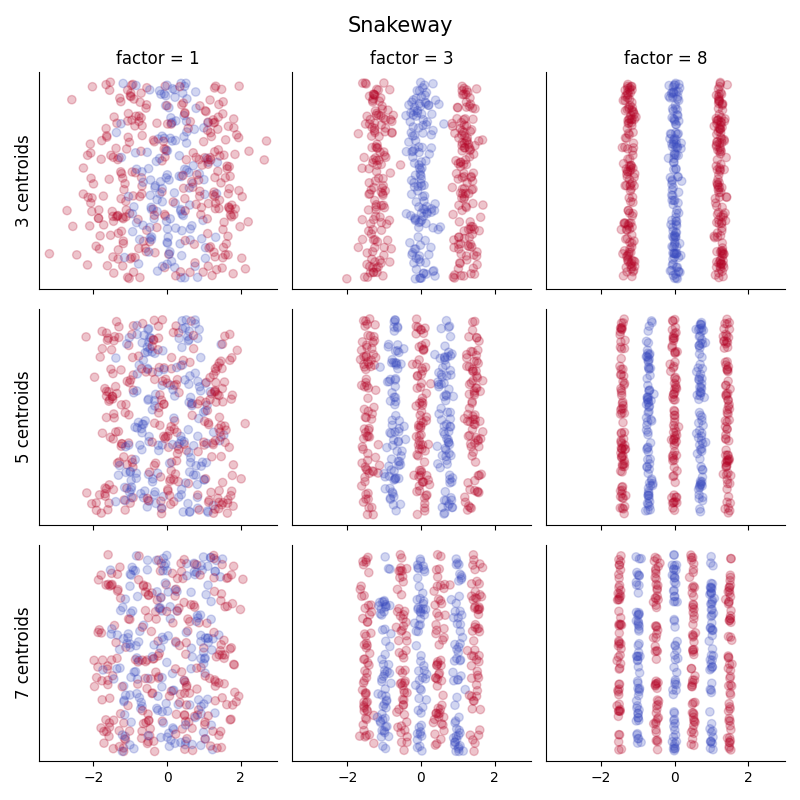
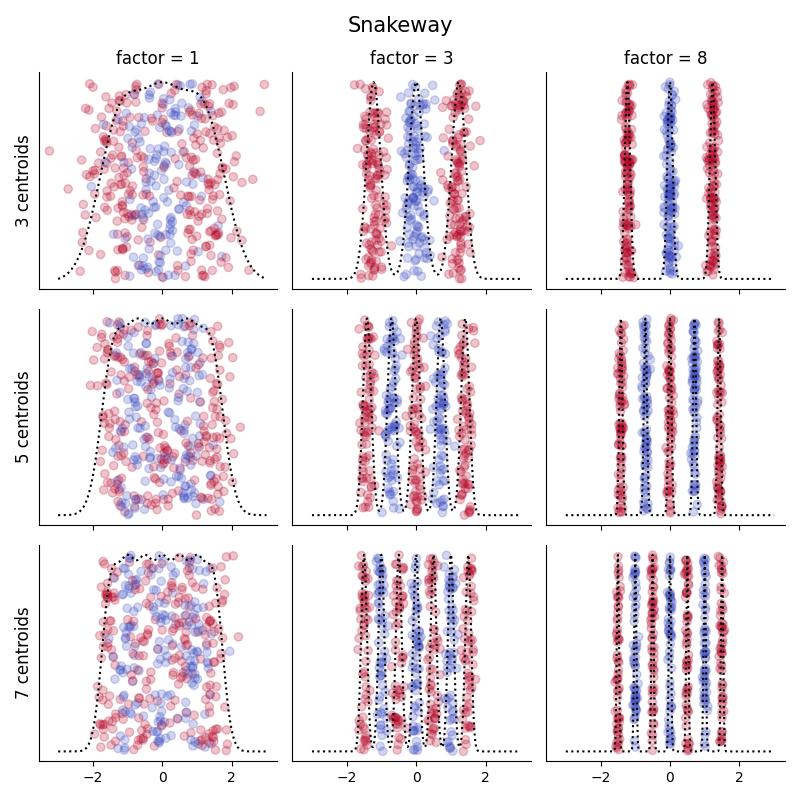
.

diff --git a/cd_plots.py b/cd_plots.py
@@ -1,0 +1,361 @@
+       
+from scipy.stats import rankdata
+import numpy as np
+import matplotlib.pyplot as plt
+import math
+from utils import synthetic_dataset_names
+
+
+def compute_CD(avranks, n, alpha="0.05", test="nemenyi"):
+    """
+    Returns critical difference for Nemenyi or Bonferroni-Dunn test
+    according to given alpha (either alpha="0.05" or alpha="0.1") for average
+    ranks and number of tested datasets N. Test can be either "nemenyi" for
+    for Nemenyi two tailed test or "bonferroni-dunn" for Bonferroni-Dunn test.
+    """
+    k = len(avranks)
+    d = {("nemenyi", "0.05"): [0, 0, 1.959964, 2.343701, 2.569032, 2.727774,
+                               2.849705, 2.94832, 3.030879, 3.101730, 3.163684,
+                               3.218654, 3.268004, 3.312739, 3.353618, 3.39123,
+                               3.426041, 3.458425, 3.488685, 3.517073,
+                               3.543799],
+         ("nemenyi", "0.1"): [0, 0, 1.644854, 2.052293, 2.291341, 2.459516,
+                              2.588521, 2.692732, 2.779884, 2.854606, 2.919889,
+                              2.977768, 3.029694, 3.076733, 3.119693, 3.159199,
+                              3.195743, 3.229723, 3.261461, 3.291224, 3.319233],
+         ("bonferroni-dunn", "0.05"): [0, 0, 1.960, 2.241, 2.394, 2.498, 2.576,
+                                       2.638, 2.690, 2.724, 2.773],
+         ("bonferroni-dunn", "0.1"): [0, 0, 1.645, 1.960, 2.128, 2.241, 2.326,
+                                      2.394, 2.450, 2.498, 2.539]}
+    q = d[(test, alpha)]
+    cd = q[k] * (k * (k + 1) / (6.0 * n)) ** 0.5
+    return cd
+
+
+def graph_ranks(avranks, names, cd=None, cdmethod=None, lowv=None, highv=None,
+                width=6, textspace=1, reverse=False, filename=None, **kwargs):
+    """
+    Draws a CD graph, which is used to display  the differences in methods'
+    performance. See Janez Demsar, Statistical Comparisons of Classifiers over
+    Multiple Data Sets, 7(Jan):1--30, 2006.
+
+    Needs matplotlib to work.
+
+    The image is ploted on `plt` imported using
+    `import matplotlib.pyplot as plt`.
+
+    Args:
+        avranks (list of float): average ranks of methods.
+        names (list of str): names of methods.
+        cd (float): Critical difference used for statistically significance of
+            difference between methods.
+        cdmethod (int, optional): the method that is compared with other methods
+            If omitted, show pairwise comparison of methods
+        lowv (int, optional): the lowest shown rank
+        highv (int, optional): the highest shown rank
+        width (int, optional): default width in inches (default: 6)
+        textspace (int, optional): space on figure sides (in inches) for the
+            method names (default: 1)
+        reverse (bool, optional):  if set to `True`, the lowest rank is on the
+            right (default: `False`)
+        filename (str, optional): output file name (with extension). If not
+            given, the function does not write a file.
+    """
+    try:
+        import matplotlib.pyplot as plt
+        from matplotlib.backends.backend_agg import FigureCanvasAgg
+    except ImportError:
+        raise ImportError("Function graph_ranks requires matplotlib.")
+
+    width = float(width)
+    textspace = float(textspace)
+
+    def nth(l, n):
+        """
+        Returns only nth elemnt in a list.
+        """
+        n = lloc(l, n)
+        return [a[n] for a in l]
+
+    def lloc(l, n):
+        """
+        List location in list of list structure.
+        Enable the use of negative locations:
+        -1 is the last element, -2 second last...
+        """
+        if n < 0:
+            return len(l[0]) + n
+        else:
+            return n
+
+    def mxrange(lr):
+        """
+        Multiple xranges. Can be used to traverse matrices.
+        This function is very slow due to unknown number of
+        parameters.
+
+        >>> mxrange([3,5])
+        [(0, 0), (0, 1), (0, 2), (1, 0), (1, 1), (1, 2)]
+
+        >>> mxrange([[3,5,1],[9,0,-3]])
+        [(3, 9), (3, 6), (3, 3), (4, 9), (4, 6), (4, 3)]
+
+        """
+        if not len(lr):
+            yield ()
+        else:
+            # it can work with single numbers
+            index = lr[0]
+            if isinstance(index, int):
+                index = [index]
+            for a in range(*index):
+                for b in mxrange(lr[1:]):
+                    yield tuple([a] + list(b))
+
+    def print_figure(fig, *args, **kwargs):
+        canvas = FigureCanvasAgg(fig)
+        canvas.print_figure(*args, **kwargs)
+
+    sums = avranks
+
+    tempsort = sorted([(a, i) for i, a in enumerate(sums)], reverse=reverse)
+    ssums = nth(tempsort, 0)
+    sortidx = nth(tempsort, 1)
+    nnames = [names[x] for x in sortidx]
+
+    if lowv is None:
+        lowv = min(1, int(math.floor(min(ssums))))
+    if highv is None:
+        highv = max(len(avranks), int(math.ceil(max(ssums))))
+
+    cline = 0.4
+
+    k = len(sums)
+
+    lines = None
+
+    linesblank = 0
+    scalewidth = width - 2 * textspace
+
+    def rankpos(rank):
+        if not reverse:
+            a = rank - lowv
+        else:
+            a = highv - rank
+        return textspace + scalewidth / (highv - lowv) * a
+
+    distanceh = 0.25
+
+    if cd and cdmethod is None:
+        # get pairs of non significant methods
+
+        def get_lines(sums, hsd):
+            # get all pairs
+            lsums = len(sums)
+            allpairs = [(i, j)
+                        for i, j in mxrange([[lsums], [lsums]]) if j > i]
+            # remove not significant
+            notSig = [(i, j) for i, j in allpairs
+                      if abs(sums[i] - sums[j]) <= hsd]
+            # keep only longest
+
+            def no_longer(ij_tuple, notSig):
+                i, j = ij_tuple
+                for i1, j1 in notSig:
+                    if (i1 <= i and j1 > j) or (i1 < i and j1 >= j):
+                        return False
+                return True
+
+            longest = [(i, j) for i, j in notSig if no_longer((i, j), notSig)]
+
+            return longest
+
+        lines = get_lines(ssums, cd)
+        linesblank = 0.2 + 0.2 + (len(lines) - 1) * 0.1
+
+        # add scale
+        distanceh = 0.25
+        cline += distanceh
+
+    # calculate height needed height of an image
+    minnotsignificant = max(2 * 0.2, linesblank)
+    height = cline + ((k + 1) / 2) * 0.2 + minnotsignificant
+
+    fig = plt.figure(figsize=(width, height))
+    fig.set_facecolor('white')
+    ax = fig.add_axes([0, 0, 1, 1])  # reverse y axis
+    ax.set_axis_off()
+
+    hf = 1. / height  # height factor
+    wf = 1. / width
+
+    def hfl(l):
+        return [a * hf for a in l]
+
+    def wfl(l):
+        return [a * wf for a in l]
+
+    # Upper left corner is (0,0).
+    ax.plot([0, 1], [0, 1], c="w")
+    ax.set_xlim(0, 1)
+    ax.set_ylim(1, 0)
+
+    def line(l, color='k', **kwargs):
+        """
+        Input is a list of pairs of points.
+        """
+        ax.plot(wfl(nth(l, 0)), hfl(nth(l, 1)), color=color, **kwargs)
+
+    def text(x, y, s, *args, **kwargs):
+        ax.text(wf * x, hf * y, s, *args, **kwargs)
+
+    line([(textspace, cline), (width - textspace, cline)], linewidth=0.7)
+
+    bigtick = 0.1
+    smalltick = 0.05
+
+    tick = None
+    for a in list(np.arange(lowv, highv, 0.5)) + [highv]:
+        tick = smalltick
+        if a == int(a):
+            tick = bigtick
+        line([(rankpos(a), cline - tick / 2),
+              (rankpos(a), cline)],
+             linewidth=0.7)
+
+    for a in range(lowv, highv + 1):
+        text(rankpos(a), cline - tick / 2 - 0.05, str(a),
+             ha="center", va="bottom")
+
+    k = len(ssums)
+
+    for i in range(math.ceil(k / 2)):
+        chei = cline + minnotsignificant + i * 0.2
+        line([(rankpos(ssums[i]), cline),
+              (rankpos(ssums[i]), chei),
+              (textspace - 0.1, chei)],
+             linewidth=0.7)
+        text(textspace - 0.2, chei, nnames[i], ha="right", va="center")
+
+    for i in range(math.ceil(k / 2), k):
+        chei = cline + minnotsignificant + (k - i - 1) * 0.2
+        line([(rankpos(ssums[i]), cline),
+              (rankpos(ssums[i]), chei),
+              (textspace + scalewidth + 0.1, chei)],
+             linewidth=0.7)
+        text(textspace + scalewidth + 0.2, chei, nnames[i],
+             ha="left", va="center")
+
+    if cd and cdmethod is None:
+        # upper scale
+        if not reverse:
+            begin, end = rankpos(lowv), rankpos(lowv + cd)
+        else:
+            begin, end = rankpos(highv), rankpos(highv - cd)
+
+        line([(begin, distanceh), (end, distanceh)], linewidth=0.7)
+        line([(begin, distanceh + bigtick / 2),
+              (begin, distanceh - bigtick / 2)],
+             linewidth=0.7)
+        line([(end, distanceh + bigtick / 2),
+              (end, distanceh - bigtick / 2)],
+             linewidth=0.7)
+        text((begin + end) / 2, distanceh - 0.05, "CD",
+             ha="center", va="bottom")
+
+        # no-significance lines
+        def draw_lines(lines, side=0.05, height=0.1):
+            start = cline + 0.2
+            for l, r in lines:
+                line([(rankpos(ssums[l]) - side, start),
+                      (rankpos(ssums[r]) + side, start)],
+                     linewidth=2.5)
+                start += height
+
+        draw_lines(lines)
+
+    elif cd:
+        begin = rankpos(avranks[cdmethod] - cd)
+        end = rankpos(avranks[cdmethod] + cd)
+        line([(begin, cline), (end, cline)],
+             linewidth=2.5)
+        line([(begin, cline + bigtick / 2),
+              (begin, cline - bigtick / 2)],
+             linewidth=2.5)
+        line([(end, cline + bigtick / 2),
+              (end, cline - bigtick / 2)],
+             linewidth=2.5)
+
+    if filename:
+        print_figure(fig, filename, **kwargs)
+    
+#############################################################################
+
+# Tutaj powinny być wyniki o kształcie: (zbiory, metody)
+res = np.load('results/E2_syn.npy')
+res = np.mean(res, axis=1)
+
+# Podział na syntetyczne istniejące i na nasze
+dataset_names = synthetic_dataset_names()
+dataset_names = [d.split('_rs')[0] for d in dataset_names]
+
+method_names = ['KNN', 'GNB', 'SVM', 'MLP', 'DPL-none', 'DPL-sqrt', 'DPL-log', 'DPL-std']
+
+order = np.argsort(dataset_names)
+res = res[order]
+dataset_names = np.array(dataset_names)[order]
+
+res_others = res[:99]
+res_others = res_others.reshape((3,-1,8))
+res_others = np.mean(res_others, axis=0)
+
+res_ours = res[99:]
+
+### Other ###
+
+ranks = []
+
+for row in res_others:
+    ranks.append(rankdata(row).tolist())
+ranks = np.array(ranks)
+
+av_ranks = np.mean(ranks, axis=0)
+cd = compute_CD(av_ranks, res_others.shape[0])
+
+graph_ranks(av_ranks, method_names, cd=cd, width=6, textspace=1.5)
+plt.savefig("figures/cd_syn_other.png")
+plt.savefig("foo.png")
+
+### Our ###
+
+ranks = []
+
+for row in res_ours:
+    ranks.append(rankdata(row).tolist())
+ranks = np.array(ranks)
+
+av_ranks = np.mean(ranks, axis=0)
+cd = compute_CD(av_ranks, res_ours.shape[0])
+
+graph_ranks(av_ranks, method_names, cd=cd, width=6, textspace=1.5)
+plt.savefig("figures/cd_syn_our.png")
+plt.savefig("foo.png")
+
+### Real ###
+
+res = np.load('results/E2_real.npy')
+res = np.mean(res, axis=1)
+print(res.shape)
+
+ranks = []
+
+for row in res:
+    ranks.append(rankdata(row).tolist())
+ranks = np.array(ranks)
+
+av_ranks = np.mean(ranks, axis=0)
+cd = compute_CD(av_ranks, res.shape[0])
+
+graph_ranks(av_ranks, method_names, cd=cd, width=6, textspace=1.5)
+plt.savefig("figures/cd_real.png")
+plt.savefig("foo.png")

diff --git a/data_vis.py b/data_vis.py
@@ -1,4 +1,4 @@
-from utils import snakeway, zeto
+from utils import snakeway, zeto, ns2pdf, norm_0_1
 import matplotlib.pyplot as plt
 import numpy as np
 
@@ -14,11 +14,16 @@ for n_c_id, n_c in enumerate(n_centroids):
     for f_id, f in enumerate(factors):
         X, y, ns = snakeway(n_samples=n_samples, n_centroids=n_c, factor=f)
         
+        pred_space = np.linspace(-3,3,1000).reshape(-1, 1)
+        spdf = ns2pdf(pred_space, (ns[0], np.ones_like(ns[1]))).flatten()
+        n_spdf = norm_0_1(spdf)
+        
         if n_c==3:
             ax[n_c_id, f_id].set_title('factor = %i' % f, fontsize=12)
         if f==1:
             ax[n_c_id, f_id].set_ylabel('%i centroids' % n_c, fontsize=12)
         ax[n_c_id, f_id].scatter(X, np.random.rand(len(y)), c=y, cmap='coolwarm', alpha=0.23)
+        ax[n_c_id, f_id].plot(pred_space, n_spdf, color='black', ls=':')
         ax[n_c_id, f_id].spines['top'].set_visible(False)
         ax[n_c_id, f_id].spines['right'].set_visible(False)
         ax[n_c_id, f_id].set_yticks([])
